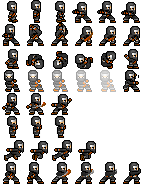
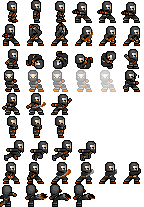
Added more attack combo and animations. Improved hit&hurt system.

diff --git a/lib/game/levels/level1.js b/lib/game/levels/level1.js
@@ -1,6 +1,6 @@
 ig.module( 'game.levels.level1' )
 .requires( 'impact.image','game.entities.enemies.treant','game.entities.classes.ninja' )
 .defines(function(){
-LevelLevel1=/*JSON[*/{"entities":[{"type":"EntityTreant","x":194,"y":117},{"type":"EntityNinja","x":33,"y":123}],"layer":[{"name":"background","width":32,"height":11,"linkWithCollision":false,"visible":1,"tilesetName":"media/sample_level_forest.png","repeat":false,"preRender":true,"distance":"1","tilesize":16,"foreground":false,"data":[[1,2,3,4,5,6,7,8,9,10,11,12,13,14,15,16,17,18,19,20,21,22,23,24,25,26,27,28,29,30,31,32],[33,34,35,36,37,38,39,40,41,42,43,44,45,46,47,48,49,50,51,52,53,54,55,56,57,58,59,60,61,62,63,64],[65,66,67,68,69,70,71,72,73,74,75,76,77,78,79,80,81,82,83,84,85,86,87,88,89,90,91,92,93,94,95,96],[97,98,99,100,101,102,103,104,105,106,107,108,109,110,111,112,113,114,115,116,117,118,119,120,121,122,123,124,125,126,127,128],[129,130,131,132,133,134,135,136,137,138,139,140,141,142,143,144,145,146,147,148,149,150,151,152,153,154,155,156,157,158,159,160],[161,162,163,164,165,166,167,168,169,170,171,172,173,174,175,176,177,178,179,180,181,182,183,184,185,186,187,188,189,190,191,192],[193,194,195,196,197,198,199,200,201,202,203,204,205,206,207,208,209,210,211,212,213,214,215,216,217,218,219,220,221,222,223,224],[225,226,227,228,229,230,231,232,233,234,235,236,237,238,239,240,241,242,243,244,245,246,247,248,249,250,251,252,253,254,255,256],[257,258,259,260,261,262,263,264,265,266,267,268,269,270,271,272,273,274,275,276,277,278,279,280,281,282,283,284,285,286,287,288],[289,290,291,292,293,294,295,296,297,298,299,300,301,302,303,304,305,306,307,308,309,310,311,312,313,314,315,316,317,318,319,320],[321,322,323,324,325,326,327,328,329,330,331,332,333,334,335,336,337,338,339,340,341,342,343,344,345,346,347,348,349,350,351,352]]},{"name":"collision","width":64,"height":22,"linkWithCollision":false,"visible":1,"tilesetName":"","repeat":false,"preRender":false,"distance":1,"tilesize":8,"foreground":true,"data":[[0,0,0,0,0,0,0,0,0,0,0,0,0,0,0,0,0,0,0,0,0,0,0,0,0,0,0,0,0,0,0,0,0,0,0,0,0,0,0,0,0,0,0,0,0,0,0,0,0,0,0,0,0,0,0,0,0,0,0,0,0,0,0,0],[0,0,0,0,0,0,0,0,0,0,0,0,0,0,0,0,0,0,0,0,0,0,0,0,0,0,0,0,0,0,0,0,0,0,0,0,0,0,0,0,0,0,0,0,0,0,0,0,0,0,0,0,0,0,0,0,0,0,0,0,0,0,0,0],[0,0,0,0,0,0,0,0,0,0,0,0,0,0,0,0,0,0,0,0,0,0,0,0,0,0,0,0,0,0,0,0,0,0,0,0,0,0,0,0,0,0,0,0,0,0,0,0,0,0,0,0,0,0,0,0,0,0,0,0,0,0,0,0],[0,0,0,0,0,0,0,0,0,0,0,0,0,0,0,0,0,0,0,0,0,0,0,0,0,0,0,0,0,0,0,0,0,0,0,0,0,0,0,0,0,0,0,0,0,0,0,0,0,0,0,0,0,0,0,0,0,0,0,0,0,0,0,0],[0,0,0,0,0,0,0,0,0,0,0,0,0,0,0,0,0,0,0,0,0,0,0,0,0,0,0,0,0,0,0,0,0,0,0,0,0,0,0,0,0,0,0,0,0,0,0,0,0,0,0,0,0,0,0,0,0,0,0,0,0,0,0,0],[0,0,0,0,0,0,0,0,0,0,0,0,0,0,0,0,0,0,0,0,0,0,0,0,0,0,0,0,0,0,0,0,0,0,0,0,0,0,0,0,0,0,0,0,0,0,0,0,0,0,0,0,0,0,0,0,0,0,0,0,0,0,0,0],[0,0,0,0,0,0,0,0,0,0,0,0,0,0,0,0,0,0,0,0,0,0,0,0,0,0,0,0,0,0,0,0,12,12,12,12,0,0,0,0,0,0,0,0,0,0,0,0,0,0,0,0,0,0,0,0,0,0,0,0,0,0,0,10],[0,0,0,0,0,0,0,0,0,0,0,0,0,0,0,0,0,0,0,0,0,0,0,0,0,0,0,0,0,0,0,0,0,0,0,0,12,12,12,0,0,0,0,0,0,0,0,0,0,0,0,0,0,0,0,0,0,0,0,0,0,0,0,21],[0,0,0,0,0,0,0,0,0,0,0,0,0,0,0,0,0,0,0,0,0,0,0,0,0,0,0,0,0,0,0,0,0,0,0,0,12,12,12,12,0,0,0,0,0,0,0,0,0,0,0,0,0,0,0,0,0,0,0,0,0,0,10,0],[0,0,0,0,0,0,0,0,0,0,0,0,0,0,0,0,0,0,0,0,0,0,0,0,0,0,0,0,0,0,0,0,0,0,0,0,0,12,12,0,0,0,0,0,0,0,0,0,0,0,0,0,0,0,0,0,0,0,0,0,0,0,21,0],[0,0,0,0,0,0,0,0,0,0,0,0,0,0,0,0,0,0,0,0,0,0,0,0,0,0,0,0,0,0,0,0,0,0,0,0,0,0,0,0,12,12,0,0,0,0,0,0,0,0,0,0,0,0,0,0,0,0,0,0,0,0,0,52],[33,0,0,0,0,0,0,0,0,0,0,0,0,0,0,0,0,0,0,0,0,0,0,0,0,0,0,0,0,0,0,0,0,0,0,0,0,0,0,0,0,0,0,0,0,0,0,0,0,0,0,0,0,0,0,0,0,0,0,0,0,0,0,32],[53,0,0,0,0,0,0,0,0,0,0,0,0,0,0,0,0,0,0,0,0,0,0,0,0,0,0,0,0,0,0,0,0,0,0,0,0,0,0,0,0,0,0,0,0,0,0,0,0,0,0,0,0,0,0,0,0,12,12,12,0,0,0,52],[33,0,0,0,0,0,0,0,0,0,0,0,0,0,0,0,0,0,0,0,0,0,0,0,0,0,12,0,0,0,0,0,12,12,0,0,0,0,0,0,0,0,12,12,12,0,0,0,0,0,0,0,0,0,0,0,0,0,0,0,0,12,0,32],[53,0,0,0,0,0,0,0,0,0,0,0,0,0,0,0,0,0,0,0,0,12,12,12,12,12,12,12,0,0,0,0,12,12,12,12,12,12,12,12,12,12,12,12,12,12,12,0,0,0,0,0,0,0,0,0,0,12,12,0,1,1,1,1],[33,0,0,0,0,0,0,0,0,0,0,0,0,0,0,0,0,0,0,0,0,0,0,0,0,0,0,0,0,0,0,0,0,0,0,0,0,0,0,0,0,0,0,0,0,0,0,0,0,0,0,0,0,0,0,0,0,0,0,0,30,0,0,0],[53,0,0,0,0,0,0,0,0,0,0,0,0,0,0,0,0,0,0,0,0,0,0,0,0,0,0,0,0,0,0,0,0,0,0,0,0,0,0,0,0,0,0,0,0,0,0,0,0,0,0,0,0,12,12,0,0,0,0,0,41,0,0,0],[33,0,0,0,0,0,0,0,0,0,0,0,0,0,0,0,0,0,0,0,0,0,0,0,0,0,0,0,0,0,0,0,0,0,0,0,0,0,0,0,0,0,0,0,0,0,0,0,0,0,0,0,0,0,0,0,0,0,0,0,52,0,0,0],[1,1,1,1,1,1,1,0,0,0,0,0,0,1,1,1,1,1,1,1,1,1,1,1,1,1,1,1,1,1,1,1,1,1,1,1,1,1,1,1,1,1,1,1,1,1,1,1,1,1,1,0,0,0,0,0,0,0,0,0,32,0,0,0],[0,0,0,0,0,0,35,0,0,0,0,0,0,13,0,0,0,0,0,0,0,0,0,0,0,0,0,0,0,0,0,0,0,0,0,0,0,0,0,0,0,0,0,0,0,0,0,0,0,0,35,0,0,0,0,0,0,0,0,0,43,0,0,0],[0,0,0,0,0,0,22,0,0,0,0,0,0,10,0,0,0,0,0,0,0,0,0,0,0,0,0,0,0,0,0,0,0,0,0,0,0,0,0,0,0,0,0,0,0,0,0,0,0,0,22,0,0,0,0,0,0,0,3,7,1,0,0,0],[0,0,0,0,0,0,0,24,5,29,5,29,5,4,0,0,0,0,0,0,0,0,0,0,0,0,0,0,0,0,0,0,0,0,0,0,0,0,0,0,0,0,0,0,0,0,0,0,0,0,0,24,5,29,5,29,5,2,0,0,0,0,0,0]]}]}/*]JSON*/;
+LevelLevel1=/*JSON[*/{"entities":[{"type":"EntityTreant","x":194,"y":117},{"type":"EntityTreant","x":258,"y":117},{"type":"EntityNinja","x":33,"y":123}],"layer":[{"name":"background","width":32,"height":11,"linkWithCollision":false,"visible":1,"tilesetName":"media/sample_level_forest.png","repeat":false,"preRender":true,"distance":"1","tilesize":16,"foreground":false,"data":[[1,2,3,4,5,6,7,8,9,10,11,12,13,14,15,16,17,18,19,20,21,22,23,24,25,26,27,28,29,30,31,32],[33,34,35,36,37,38,39,40,41,42,43,44,45,46,47,48,49,50,51,52,53,54,55,56,57,58,59,60,61,62,63,64],[65,66,67,68,69,70,71,72,73,74,75,76,77,78,79,80,81,82,83,84,85,86,87,88,89,90,91,92,93,94,95,96],[97,98,99,100,101,102,103,104,105,106,107,108,109,110,111,112,113,114,115,116,117,118,119,120,121,122,123,124,125,126,127,128],[129,130,131,132,133,134,135,136,137,138,139,140,141,142,143,144,145,146,147,148,149,150,151,152,153,154,155,156,157,158,159,160],[161,162,163,164,165,166,167,168,169,170,171,172,173,174,175,176,177,178,179,180,181,182,183,184,185,186,187,188,189,190,191,192],[193,194,195,196,197,198,199,200,201,202,203,204,205,206,207,208,209,210,211,212,213,214,215,216,217,218,219,220,221,222,223,224],[225,226,227,228,229,230,231,232,233,234,235,236,237,238,239,240,241,242,243,244,245,246,247,248,249,250,251,252,253,254,255,256],[257,258,259,260,261,262,263,264,265,266,267,268,269,270,271,272,273,274,275,276,277,278,279,280,281,282,283,284,285,286,287,288],[289,290,291,292,293,294,295,296,297,298,299,300,301,302,303,304,305,306,307,308,309,310,311,312,313,314,315,316,317,318,319,320],[321,322,323,324,325,326,327,328,329,330,331,332,333,334,335,336,337,338,339,340,341,342,343,344,345,346,347,348,349,350,351,352]]},{"name":"collision","width":64,"height":22,"linkWithCollision":false,"visible":1,"tilesetName":"","repeat":false,"preRender":false,"distance":1,"tilesize":8,"foreground":true,"data":[[0,0,0,0,0,0,0,0,0,0,0,0,0,0,0,0,0,0,0,0,0,0,0,0,0,0,0,0,0,0,0,0,0,0,0,0,0,0,0,0,0,0,0,0,0,0,0,0,0,0,0,0,0,0,0,0,0,0,0,0,0,0,0,0],[0,0,0,0,0,0,0,0,0,0,0,0,0,0,0,0,0,0,0,0,0,0,0,0,0,0,0,0,0,0,0,0,0,0,0,0,0,0,0,0,0,0,0,0,0,0,0,0,0,0,0,0,0,0,0,0,0,0,0,0,0,0,0,0],[0,0,0,0,0,0,0,0,0,0,0,0,0,0,0,0,0,0,0,0,0,0,0,0,0,0,0,0,0,0,0,0,0,0,0,0,0,0,0,0,0,0,0,0,0,0,0,0,0,0,0,0,0,0,0,0,0,0,0,0,0,0,0,0],[0,0,0,0,0,0,0,0,0,0,0,0,0,0,0,0,0,0,0,0,0,0,0,0,0,0,0,0,0,0,0,0,0,0,0,0,0,0,0,0,0,0,0,0,0,0,0,0,0,0,0,0,0,0,0,0,0,0,0,0,0,0,0,0],[0,0,0,0,0,0,0,0,0,0,0,0,0,0,0,0,0,0,0,0,0,0,0,0,0,0,0,0,0,0,0,0,0,0,0,0,0,0,0,0,0,0,0,0,0,0,0,0,0,0,0,0,0,0,0,0,0,0,0,0,0,0,0,0],[0,0,0,0,0,0,0,0,0,0,0,0,0,0,0,0,0,0,0,0,0,0,0,0,0,0,0,0,0,0,0,0,0,0,0,0,0,0,0,0,0,0,0,0,0,0,0,0,0,0,0,0,0,0,0,0,0,0,0,0,0,0,0,0],[0,0,0,0,0,0,0,0,0,0,0,0,0,0,0,0,0,0,0,0,0,0,0,0,0,0,0,0,0,0,0,0,12,12,12,12,0,0,0,0,0,0,0,0,0,0,0,0,0,0,0,0,0,0,0,0,0,0,0,0,0,0,0,10],[0,0,0,0,0,0,0,0,0,0,0,0,0,0,0,0,0,0,0,0,0,0,0,0,0,0,0,0,0,0,0,0,0,0,0,0,12,12,12,0,0,0,0,0,0,0,0,0,0,0,0,0,0,0,0,0,0,0,0,0,0,0,0,21],[0,0,0,0,0,0,0,0,0,0,0,0,0,0,0,0,0,0,0,0,0,0,0,0,0,0,0,0,0,0,0,0,0,0,0,0,12,12,12,12,0,0,0,0,0,0,0,0,0,0,0,0,0,0,0,0,0,0,0,0,0,0,10,0],[0,0,0,0,0,0,0,0,0,0,0,0,0,0,0,0,0,0,0,0,0,0,0,0,0,0,0,0,0,0,0,0,0,0,0,0,0,12,12,0,0,0,0,0,0,0,0,0,0,0,0,0,0,0,0,0,0,0,0,0,0,0,21,0],[0,0,0,0,0,0,0,0,0,0,0,0,0,0,0,0,0,0,0,0,0,0,0,0,0,0,0,0,0,0,0,0,0,0,0,0,0,0,0,0,12,12,0,0,0,0,0,0,0,0,0,0,0,0,0,0,0,0,0,0,0,0,0,52],[33,0,0,0,0,0,0,0,0,0,0,0,0,0,0,0,0,0,0,0,0,0,0,0,0,0,0,0,0,0,0,0,0,0,0,0,0,0,0,0,0,0,0,0,0,0,0,0,0,0,0,0,0,0,0,0,0,0,0,0,0,0,0,32],[53,0,0,0,0,0,0,0,0,0,0,0,0,0,0,0,0,0,0,0,0,0,0,0,0,0,0,0,0,0,0,0,0,0,0,0,0,0,0,0,0,0,0,0,0,0,0,0,0,0,0,0,0,0,0,0,0,12,12,12,0,0,0,52],[33,0,0,0,0,0,0,0,0,0,0,0,0,0,0,0,0,0,0,0,0,0,0,0,0,0,12,0,0,0,0,0,12,12,0,0,0,0,0,0,0,0,12,12,12,0,0,0,0,0,0,0,0,0,0,0,0,0,0,0,0,12,0,32],[53,0,0,0,0,0,0,0,0,0,0,0,0,0,0,0,0,0,0,0,0,12,12,12,12,12,12,12,0,0,0,0,12,12,12,12,12,12,12,12,12,12,12,12,12,12,12,0,0,0,0,0,0,0,0,0,0,12,12,0,1,1,1,1],[33,0,0,0,0,0,0,0,0,0,0,0,0,0,0,0,0,0,0,0,0,0,0,0,0,0,0,0,0,0,0,0,0,0,0,0,0,0,0,0,0,0,0,0,0,0,0,0,0,0,0,0,0,0,0,0,0,0,0,0,30,0,0,0],[53,0,0,0,0,0,0,0,0,0,0,0,0,0,0,0,0,0,0,0,0,0,0,0,0,0,0,0,0,0,0,0,0,0,0,0,0,0,0,0,0,0,0,0,0,0,0,0,0,0,0,0,0,12,12,0,0,0,0,0,41,0,0,0],[33,0,0,0,0,0,0,0,0,0,0,0,0,0,0,0,0,0,0,0,0,0,0,0,0,0,0,0,0,0,0,0,0,0,0,0,0,0,0,0,0,0,0,0,0,0,0,0,0,0,0,0,0,0,0,0,0,0,0,0,52,0,0,0],[1,1,1,1,1,1,1,0,0,0,0,0,0,1,1,1,1,1,1,1,1,1,1,1,1,1,1,1,1,1,1,1,1,1,1,1,1,1,1,1,1,1,1,1,1,1,1,1,1,1,1,0,0,0,0,0,0,0,0,0,32,0,0,0],[0,0,0,0,0,0,35,0,0,0,0,0,0,13,0,0,0,0,0,0,0,0,0,0,0,0,0,0,0,0,0,0,0,0,0,0,0,0,0,0,0,0,0,0,0,0,0,0,0,0,35,0,0,0,0,0,0,0,0,0,43,0,0,0],[0,0,0,0,0,0,22,0,0,0,0,0,0,10,0,0,0,0,0,0,0,0,0,0,0,0,0,0,0,0,0,0,0,0,0,0,0,0,0,0,0,0,0,0,0,0,0,0,0,0,22,0,0,0,0,0,0,0,3,7,1,0,0,0],[0,0,0,0,0,0,0,24,5,29,5,29,5,4,0,0,0,0,0,0,0,0,0,0,0,0,0,0,0,0,0,0,0,0,0,0,0,0,0,0,0,0,0,0,0,0,0,0,0,0,0,24,5,29,5,29,5,2,0,0,0,0,0,0]]}]}/*]JSON*/;
 LevelLevel1Resources=[new ig.Image('media/sample_level_forest.png')];
 });

diff --git a/lib/game/entities/classes/ninja.js b/lib/game/entities/classes/ninja.js
@@ -60,6 +60,7 @@ ig.module (
             this.addAnim('fall', 1, [17], true);
             this.addAnim('attackGround', this.attackSpeed, [6, 7, 8, 9, 10, 11], true);
             this.addAnim('attackGround2', this.attackSpeed, [42, 43, 44, 45, 46, 47, 47], true);
+            this.addAnim('attackGround3', this.attackSpeed, [48, 49, 50, 51, 51, 51, 48], true);
             this.addAnim('attackAir', this.attackSpeed, [6, 7, 8, 9, 10, 11], true);
             this.addAnim('block', 1, [23], true);
             this.addAnim('cast', 0.1, [30, 30, 30, 31, 32, 32, 31, 30], true);
@@ -99,6 +100,43 @@ ig.module (
             this.parent();
 
             var self = this;
+
+            this.stateMachine.state(this.State.ATTACKGROUND, {
+                enter: function() {
+                    self.state = self.State.ATTACKGROUND;
+                    self.attackGround();
+                    self.activeWeapon.attackGround();
+                },
+                update: function() {
+                    self.activeWeapon.resizeToAttackBox();
+                    self.activeWeapon.offsetAttackPos();
+
+                    if (self.currentAnim.loopCount) {
+                        self._targetGroup.length = 0;
+                        if (self._inAttackCombo && self.currentAnim == self.anims.attackGround) {
+                            self.attackGround2();
+                            self.activeWeapon.attackGround2();
+                            self._inAttackCombo = false;
+                        }
+                        else if (self._inAttackCombo && self.currentAnim == self.anims.attackGround2) {
+                            self.attackGround3();
+                            self.activeWeapon.attackGround3();
+                            self._inAttackCombo = false;
+                        }
+                    }
+
+                    if ((self.currentAnim == self.anims.attackGround || self.currentAnim == self.anims.attackGround2) &&
+                        self.currentAnim.frame > 0 &&
+                        ig.input.pressed('attack'))
+                        self._inAttackCombo = true;
+
+                    if (self.currentAnim == self.anims.attackGround3 && self.currentAnim.loopCount) {
+                        self.pos.x += self.flip?9:-9;
+                    }
+                },
+                exit: function() {
+                }
+            });
 
             this.stateMachine.state(this.State.CASTING, {
                 enter: function() {
@@ -145,6 +183,20 @@ ig.module (
             this.mana = this.manaMax;
             this._attack += 5;
             this._defence += 5;
+        },
+
+        attackGround3: function() {
+            this.parent();
+
+            this.currentAnim.flip.x = this.flip;
+            this.pos.x += this.flip?-9:9;
+        },
+
+        isAbleToAttack: function() {
+            return (this.currentAnim == this.anims.attackGround && (this.currentAnim.frame == 3 || this.currentAnim.frame == 4)) ||
+                   (this.currentAnim == this.anims.attackGround2 && (this.currentAnim.frame == 3 || this.currentAnim.frame == 4)) ||
+                   (this.currentAnim == this.anims.attackGround3 && (this.currentAnim.frame >= 2 && this.currentAnim.frame <= 4)) ||
+                   (this.currentAnim == this.anims.attackAir && (this.currentAnim.frame == 3 || this.currentAnim.frame == 4));
         }
     });
 });

diff --git a/lib/game/entities/enemies/treant.js b/lib/game/entities/enemies/treant.js
@@ -65,31 +65,32 @@ ig.module (
 
         check: function(other) {
             if (!other.isAbleToBlock(this) &&
-                (this.stateMachine.currentState == this.State.ATTACKGROUND ||
-                this.stateMachine.currentState == this.State.ATTACKAIR) &&
-                !this._justMadeDamage &&
-                (this.currentAnim.frame == 1 || this.currentAnim.frame == 2)) {
+                this.isAbleToAttack() &&
+                this._targetGroup.indexOf(other) == -1) {
 
                 other.hurt(this.isOnLeftOf(other), {value: this._attack});
                 other.bloodEmitter.setPos(other.pos.x + 4, other.pos.y + 4);
 
-                this._justMadeDamage = true;
+                this._targetGroup.push(other);
             }
             else if (other.isAbleToBlock(this) &&
                 !other._justMadeBlock &&
-                (this.currentAnim.frame == 1)) {
+                this.isAbleToAttack()) {
                 other.slideBack(this.isOnLeftOf(other));
                 other._justMadeBlock = true;
-
-
             }
         },
 
         knockBack: function(fromLeft) {
-            var knockbackPower = this.health <= this._damageAccum ? 200 : 100;
-            var knockupPower = this.health <= this._damageAccum ? 100 : 50;
+            var knockbackPower = (this.health <= this._damageAccum ||
+                ig.game.player.currentAnim == ig.game.player.anims.attackGround3) ? 150 : 50;
+            var knockupPower = this.health <= this._damageAccum ? 70 : 40;
             this.vel.x = fromLeft ? knockbackPower : -knockbackPower;
             this.vel.y = -knockupPower;
+
+            if (ig.game.player.currentAnim == ig.game.player.anims.attackGround3) {
+                ig.game.shakeScreen(0.2, 2);
+            }
         },
 
         slideBack: function(fromLeft) {
@@ -100,6 +101,11 @@ ig.module (
             this.size.x = 22;
             this.offset.x = this.flip ? 0 : 10;
             this.pos.x += this.flip ? -8 : 4;
+        },
+
+        isAbleToAttack: function() {
+            return (this.currentAnim == this.anims.attackGround && (this.currentAnim.frame == 1 || this.currentAnim.frame == 2)) ||
+                   (this.currentAnim == this.anims.attackAir && (this.currentAnim.frame == 1 || this.currentAnim.frame == 2));
         }
     });
 });

diff --git a/lib/game/entities/player.js b/lib/game/entities/player.js
@@ -166,9 +166,10 @@ ig.module (
             prevWeapon.kill();
 
             this.initAttributes();
-            // TODO: need to make below more generic
+            // TODO: update attack animation based on attackSpeed. Need to make this more generic
             this.anims.attackGround.frameTime = this.attackSpeed;
             this.anims.attackGround2.frameTime = this.attackSpeed;
+            this.anims.attackGround3.frameTime = this.attackSpeed;
             this.anims.attackAir.frameTime = this.attackSpeed;
         },
 
@@ -319,29 +320,6 @@ ig.module (
                 }
             });
 
-            this.stateMachine.state(this.State.ATTACKGROUND, {
-                enter: function() {
-                    self.state = self.State.ATTACKGROUND;
-                    self.attackGround();
-                    self.activeWeapon.attackGround();
-                },
-                update: function() {
-                    self.activeWeapon.resizeToAttackBox();
-                    self.activeWeapon.offsetAttackPos();
-                    if (self.currentAnim.loopCount && self._inAttackCombo) {
-                        self.attackGround2();
-                        self.activeWeapon.attackGround2();
-                        self._justMadeDamage = false;
-                        self._inAttackCombo = false;
-                    }
-                    if (self.currentAnim == self.anims.attackGround && self.currentAnim.frame > 2 && ig.input.pressed('attack'))
-                        self._inAttackCombo = true;
-                },
-                exit: function() {
-                    self._justMadeDamage = false;
-                }
-            });
-
             this.stateMachine.state(this.State.ATTACKAIR, {
                 enter: function() {
                     self.state = self.State.ATTACKAIR;
@@ -354,7 +332,8 @@ ig.module (
                     self.activeWeapon.vel.y = self.vel.y;
                 },
                 exit: function() {
-                    self._justMadeDamage = false;
+                    //self._justMadeDamage = false;
+                    self._targetGroup.length = 0;
                     self.activeWeapon.stop();
                     self.activeWeapon.vel.x = 0;
                     self.activeWeapon.vel.y = 0;

diff --git a/lib/game/entities/weapons/katana.js b/lib/game/entities/weapons/katana.js
@@ -39,6 +39,7 @@ ig.module (
             this.addAnim('idle', 0.3, [0, 1, 2, 1]);
             this.addAnim('attackGround', this.attackSpeed, [6, 7, 8, 9, 10, 11], true);
             this.addAnim('attackGround2', this.attackSpeed, [18, 19, 20, 21, 22, 23, 23], true);
+            this.addAnim('attackGround3', this.attackSpeed, [24, 25, 25, 25, 25, 25, 24], true);
             this.addAnim('attackAir', this.attackSpeed, [6, 7, 8, 9, 10, 11], true);
             this.addAnim('block', 1, [12], true);
 
@@ -48,20 +49,18 @@ ig.module (
         check: function(other) {
             if (!other.isAbleToBlock(this) &&
                 other.state != other.State.INVINCIBLE &&
-                (this.owner.stateMachine.currentState == this.owner.State.ATTACKGROUND ||
-                this.owner.stateMachine.currentState == this.owner.State.ATTACKAIR) &&
-                !this.owner._justMadeDamage &&
-                (this.currentAnim.frame == 3 || this.currentAnim.frame == 4)) {
+                this.owner.isAbleToAttack() &&
+                this.owner._targetGroup.indexOf(other) == -1) {
 
                 other.bloodEmitter.setPos(this.pos.x + (this.flip ? -12 : 12), this.pos.y + 4);
                 other.hurt(this.owner.isOnLeftOf(other), this.owner.makeRandDamage());
 
-                this.owner._justMadeDamage = true;
+                this.owner._targetGroup.push(other);
                 this.owner.target = other;
             }
             else if (other.isAbleToBlock(this) &&
                 !other._justMadeBlock &&
-                (this.currentAnim.frame == 3 || this.currentAnim.frame == 4)) {
+                this.owner.isAbleToAttack()) {
                 other.slideBack(this.owner.isOnLeftOf(other));
                 other._justMadeBlock = true;
 

diff --git a/index.html b/index.html
@@ -89,6 +89,20 @@
     </div><br /><br /><br />
     <div id="changeLog">
         <p>
+            <strong>Change log (05/15/2014)</strong><br/>
+            - More attack combos!<br/>
+              Now allow attack x 3 and last hit has knockback effect.<br/>
+            - Rewrote hit&hurt logic.<br/>
+              Solved the issue of one to many and many to one at the same time.<br/>
+            <br/>
+            <strong>Change log (05/14/2014)</strong><br/>
+            - Used new level background.<br/>
+            - Fixed the bug that weapon animation will has leak in some cases<br/>
+              when attacking and flipping.<br/>
+            - Fixed the bug that tooltip will remain appearing when close windows.<br/>
+            - Fixed the bug that mana value is not populated correctly.<br/>
+            - Minor animation improvements.<br/>
+            <br/>
             <strong>Change log (05/13/2014)</strong><br/>
             - Added attack combo. BOOM!<br/>
             - Refined idle, attack (combo) animations.<br/>

diff --git a/lib/game/entities/character.js b/lib/game/entities/character.js
@@ -79,7 +79,7 @@ ig.module (
         jumpSpeed: 400,
 
         // internal uses
-        _justMadeDamage: false,
+        _targetGroup: [],
         _justMadeBlock: false,
         _damageAccum: 0,
         _healAccum: 0,
@@ -239,6 +239,12 @@ ig.module (
             this.currentAnim = this.anims.attackGround2.rewind();
         },
 
+        attackGround3: function() {
+            this.stop();
+            this.vel.x = 0;
+            this.currentAnim = this.anims.attackGround3.rewind();
+        },
+
         attackAir: function() {
 //            this.stop();
 //            this.vel.x = 0;
@@ -339,6 +345,10 @@ ig.module (
         isAbleToBlock: function(other) {
             return this.state == this.State.BLOCK &&
                    ((this.flip && !this.isOnLeftOf(other)) || (!this.flip && this.isOnLeftOf(other)))
+        },
+
+        isAbleToAttack: function() {
+
         },
 
         setPosition: function(x, y) {

diff --git a/lib/game/entities/spells/shadowClone.js b/lib/game/entities/spells/shadowClone.js
@@ -182,10 +182,11 @@ ig.module (
                     weapon.attackGround();
                 },
                 update: function() {
+                    weapon.resizeToAttackBox();
                     weapon.offsetAttackPos();
                 },
                 exit: function() {
-                    self._justMadeDamage = false;
+                    self._targetGroup.length = 0;
                 }
             });
 
@@ -231,7 +232,7 @@ ig.module (
                     weapon.vel.y = self.vel.y;
                 },
                 exit: function() {
-                    self._justMadeDamage = false;
+                    self._targetGroup.length = 0;
                     weapon.stop();
                     weapon.vel.x = 0;
                     weapon.vel.y = 0;

diff --git a/lib/game/entities/weapons/weapon.js b/lib/game/entities/weapons/weapon.js
@@ -96,6 +96,15 @@ ig.module (
             this.currentAnim = this.anims.attackGround2.rewind();
         },
 
+        attackGround3: function() {
+            this.resizeToAttackBox();
+            this.offsetAttackPos();
+
+            this.getCollision();
+            this.setVisible();
+            this.currentAnim = this.anims.attackGround3.rewind();
+        },
+
         attackAir: function() {
             this.resizeToAttackBox();
             this.offsetAttackPos();

diff --git a/lib/game/entities/enemy.js b/lib/game/entities/enemy.js
@@ -228,7 +228,7 @@ ig.module (
                 update: function() {
                 },
                 exit: function() {
-                    self._justMadeDamage = false;
+                    self._targetGroup.length = 0;
                     self.resizeToNormalBox();
                 }
             });
